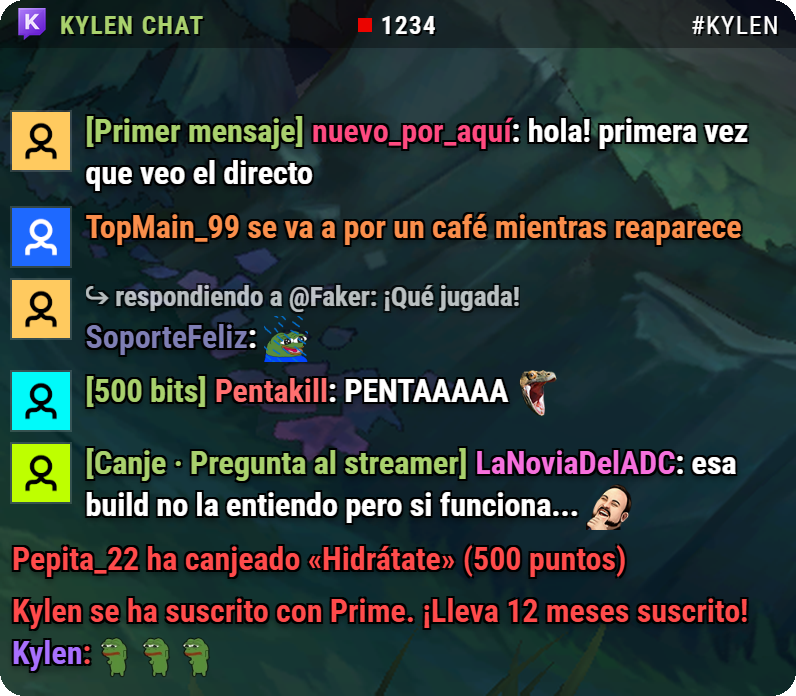
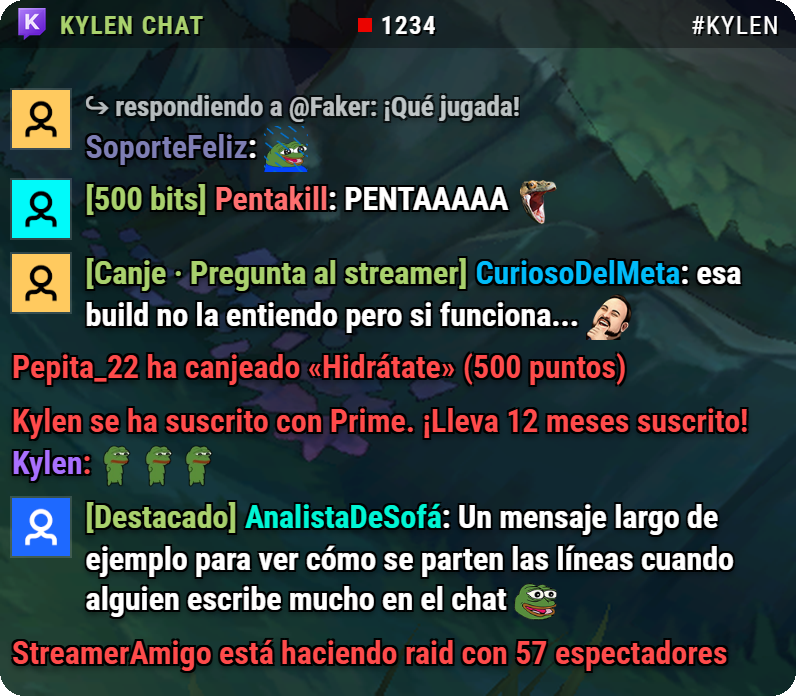
Modo prueba: usuario de ejemplo CuriosoDelMeta en vez de LaNoviaDelADC; capturas del README rehechas

diff --git a/i18n.js b/i18n.js
@@ -712,7 +712,7 @@
       ['TopMain_99', '#FA8E4B', '\x01ACTION se va a por un café mientras reaparece\x01'],
       ['SoporteFeliz', '#1A1A7A', 'peepoHappy RainTime', { reply: { name: 'Faker', body: '¡Qué jugada!' } }],
       ['Pentakill', '#FF7070', 'PENTAAAAA PogChamp', { bits: 500 }],
-      ['LaNoviaDelADC', '#F670DD', 'esa build no la entiendo pero si funciona... LUL', { redeem: true, rewardTitle: 'Pregunta al streamer' }],
+      ['CuriosoDelMeta', '#00BBF9', 'esa build no la entiendo pero si funciona... LUL', { redeem: true, rewardTitle: 'Pregunta al streamer' }],
       { redeem: { name: 'Pepita_22', title: 'Hidrátate', cost: 500, color: '#00C7AC' } },
       { notice: 'Kylen se ha suscrito con Prime. ¡Lleva 12 meses suscrito!', msg: ['Kylen', '#A970FF', 'PepePls PepePls PepePls'] },
       ['AnalistaDeSofá', '#00F5D4', 'Un mensaje largo de ejemplo para ver cómo se parten las líneas cuando alguien escribe mucho en el chat FeelsGoodMan', { highlighted: true }],
